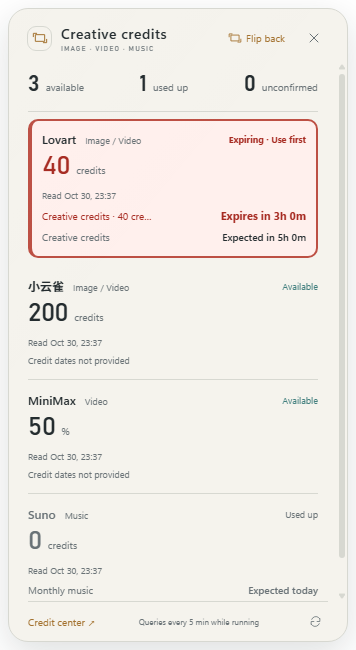
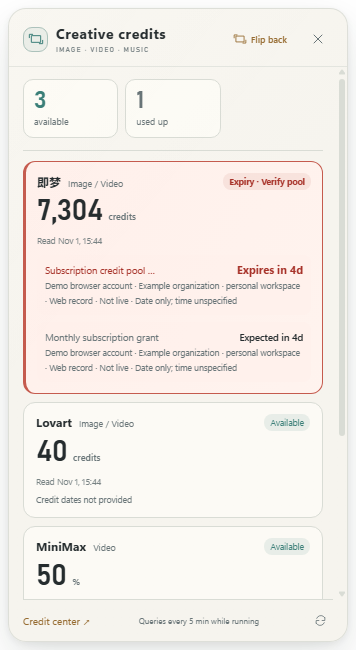
Show only confirmed creative balances on the compact back

diff --git a/src/ui/creative-panel.js b/src/ui/creative-panel.js
@@ -33,7 +33,7 @@
       const account=row.accountCount>1?t(` · 显示 ${row.account||'未命名账号'}，共${row.accountCount}个账号`,` · Showing ${row.account||'unnamed account'} of ${row.accountCount} accounts`):'';
       return `<article class="creative-row is-${row.status} ${row.expiring?'is-expiring':''} ${row.criticalExpiry?'is-critical':''} ${row.expiryIsPrimary?'expiry-is-primary':''}" data-provider="${esc(row.id)}"><div class="creative-row-top"><div><strong>${esc(row.name)}</strong><span class="creative-kind">${esc(row.kinds.map(kind).join(' / '))}</span></div><span class="creative-status">${status}</span></div><div class="creative-amount">${row.amount==null?'—':format(row.amount)}<small>${row.amount==null?'':esc(unit)}</small></div><div class="creative-read-time">${esc(reading+provenance+account)}</div>${dateLines(row)}</article>`;
     }).join('');
-    return `<section class="panel creative-panel"><header class="header"><div class="brand-mark">${icon('flip')}</div><div class="brand">${t('创作积分','Creative credits')}<small>IMAGE · VIDEO · MUSIC</small></div><span class="spacer"></span><button class="flip-switch" data-action="show-codex">${icon('flip')}${t('翻回','Flip back')}</button>${button('close',t('关闭面板','Close panel'),'close')}</header><div class="content creative-content"><div class="creative-summary"><span><strong>${data.available}</strong>${t('有积分','available')}</span><span><strong>${data.empty}</strong>${t('已用尽','used up')}</span><span><strong>${data.unknown}</strong>${t('待确认','unconfirmed')}</span></div>${state.demo?`<p class="notice demo-label">${t('示例数据','Sample data')}</p>`:''}<div class="creative-list">${rows||`<div class="empty"><h1>${t('还没有创作额度读数','No creative quota readings yet')}</h1><p>${t('使用本机已有的生图、生视频或音乐连接；可到额度中心梳理和补充记录。','Use existing image, video or music connections. Discover tools or add readings in the credit center.')}</p></div>`}</div></div><footer class="footer"><button class="text-button" data-action="credit-center">${t('额度中心','Credit center')} ↗</button><span>${data.enabled?t('运行时每5分钟查询','Queries every 5 min while running'):t('自动查询已暂停','Automatic queries paused')}</span><button class="icon-button" data-action="creative-refresh" ${data.busy?'disabled':''} aria-label="${t('刷新创作积分','Refresh creative credits')}">${icon('refresh')}</button></footer></section>`;
+    return `<section class="panel creative-panel"><header class="header"><div class="brand-mark">${icon('flip')}</div><div class="brand">${t('创作积分','Creative credits')}<small>IMAGE · VIDEO · MUSIC</small></div><span class="spacer"></span><button class="flip-switch" data-action="show-codex">${icon('flip')}${t('翻回','Flip back')}</button>${button('close',t('关闭面板','Close panel'),'close')}</header><div class="content creative-content"><div class="creative-summary"><span><strong>${data.available}</strong>${t('有积分','available')}</span><span><strong>${data.empty}</strong>${t('已用尽','used up')}</span></div>${state.demo?`<p class="notice demo-label">${t('示例数据','Sample data')}</p>`:''}<div class="creative-list">${rows||`<div class="empty"><h1>${t('还没有创作额度读数','No creative quota readings yet')}</h1><p>${t('这里只显示已查到有效余额的工具。有积分和已用尽的都会保留，其他工具请到额度中心查看。','Only tools with current balance readings appear here, including used-up balances. Find other tools in the credit center.')}</p></div>`}</div></div><footer class="footer"><button class="text-button" data-action="credit-center">${t('额度中心','Credit center')} ↗</button><span>${data.enabled?t('运行时每5分钟查询','Queries every 5 min while running'):t('自动查询已暂停','Automatic queries paused')}</span><button class="icon-button" data-action="creative-refresh" ${data.busy?'disabled':''} aria-label="${t('刷新创作积分','Refresh creative credits')}">${icon('refresh')}</button></footer></section>`;
   }
   return{markup};
 });

diff --git a/docs/CREDIT_CENTER.md b/docs/CREDIT_CENTER.md
@@ -2,6 +2,12 @@
 
 For installation and first use, start with the [English tutorial](GETTING_STARTED.md). This page describes adapters, private imports and integration details. 首次安装和使用请先看[中文教程](GETTING_STARTED.zh-CN.md)，本页为适配、私人导入及集成说明。
 
+## 0.3.11: Balance-only creative preview / 背面只显示有效余额
+
+The creative back includes only tools classified as available or used up from current balance readings. Missing, failed, stale, expired or otherwise unconfirmed readings stay in the full credit center, with their original balances and dates intact. The back has no unconfirmed counter. Hidden tools still refresh normally and reappear after a successful reading; a query in progress keeps the refresh control busy even when its tool is hidden. Expiry priority, daily-gift suppression, and zero-balance styling continue to apply to visible rows.
+
+中文：背面只保留查到有效余额的工具，有积分和已用尽都显示。未接通、失败、过期及其他待确认读数收在额度中心，原余额和日期不删；顶部去掉待确认计数。隐藏工具继续按原机制刷新，查到有效余额自动出现，查询期间刷新按钮保持忙碌状态。可见卡片沿用临期标红置顶、每日赠送到期静音及用尽置灰。
+
 ## 0.3.8: Daily expiry suppression / 每日赠送到期静音
 
 Same-day daily gifts remain balances and date facts, but do not produce expiry notifications or priority/countdowns in compact overviews. Explicit `poolType` / `creditCadence` is normalized before persistence and propagated into events. `daily` denotes the daily same-day gift bucket; `monthly` normalizes to `subscription`. Explicit subscription/purchased/permanent metadata and stated multi-day validity prevent legacy daily-name misclassification. The current date alone is never sufficient for suppression.

diff --git a/docs/VERIFICATION.md b/docs/VERIFICATION.md
@@ -1,5 +1,11 @@
 # Verification / 验证记录
 
+## 0.3.11 creative balance filtering
+
+159 automated checks pass, including missing/failed/stale balances, mixed accounts with a current zero balance, hidden-tool refresh and reappearance. The final ASAR passes 44 isolated native interactions in Chinese/dark and English/light at 356px and 320px, covering the flip, available/used-up rows, hidden unknown tools, retained center records, successful refresh, and Codex reopening behavior. Screenshots use synthetic data. This verifies local behavior, not Mac devices or natural future notification delivery.
+
+中文：159项自动检查和最终ASAR内44项隔离原生操作通过。缺失、失败和旧余额收起，有效零余额保留；多账号不合计，其他账号未知不挡住所选账号的有效零余额。隐藏工具仍刷新，成功后自动出现，中心记录、日期和Codex正面保留。覆盖中英明暗及356/320宽度，公开图仅合成数据；不冒充Mac或自然通知验收。
+
 ## 0.3.8 daily expiry suppression / 每日赠送静音（2026-10-30）
 
 - 154 automated checks pass. New cases exercise daily-vs-today distinction, explicit daily/purchased cadence normalization, website/live/user-date paths, bound-pool inheritance, retained balances/date facts and daily renewal independence. Same-day subscription and purchased expiries remain eligible.

diff --git a/README.md b/README.md
@@ -8,7 +8,7 @@ A desktop AI credit center with a small, precision-styled Codex usage gauge abov
 
 **No Gauge account or additional provider login inside Gauge.** It uses the current user's own local CLI/MCP connections or optional API credentials. A new installation includes no developer account, balances or date rules. Discovering a plugin is not proof that its balance can be queried. See the [distribution privacy verification](docs/PRIVACY_VERIFICATION.md).
 
-**Current version: 0.3.10.** Creative credit cards now fit the compact panel with long date/account notes, and reopening the panel always starts with Codex usage. [Release notes](docs/releases/0.3.10.md) · [Technical guide](docs/CREDIT_CENTER.md).
+**Current version: 0.3.11.** The creative back shows only current balance readings, including available and used-up tools. Unconnected or unconfirmed tools remain in the credit center. [Release notes](docs/releases/0.3.11.md) · [Technical guide](docs/CREDIT_CENTER.md).
 
 ![Quota overview with synthetic sample data](assets/credit-overview-en.png)
 

diff --git a/docs/releases/0.3.11.md b/docs/releases/0.3.11.md
@@ -1,0 +1,11 @@
+# 0.3.11 — Keep the creative back focused on balances
+
+- Shows only creative tools with current balance readings. Available credits and confirmed zero balances both remain visible.
+- Moves unconnected, failed and unconfirmed readings out of the compact back; they remain available in the credit center. Removes the unconfirmed counter from the back.
+- Hidden tools continue refreshing and reappear after a successful reading. Preserves expiry priority, countdowns, daily-gift suppression, and the original Codex face.
+
+Windows builds remain unsigned; Mac behavior has not been device-tested.
+
+## 中文
+
+创作积分背面只显示已查到有效余额的工具，有积分和已用尽都保留。未接通、查询失败及待确认的读数收在额度中心，不占背面位置，顶部也去掉待确认计数。隐藏工具继续刷新，查到有效余额会自动出现；临期标红置顶、倒计时、每日赠送静音和Codex正面沿用原逻辑。Windows包未签名，Mac仍待实机验证。

diff --git a/README.zh-CN.md b/README.zh-CN.md
@@ -8,7 +8,7 @@
 
 **不用注册刻度账号，不用在刻度里额外登录平台。** 查询沿用当前用户自己电脑上的 CLI / MCP 连接或可选 API 凭据。新安装不带开发者账号、余额和日期规则；发现插件不代表能查余额。详见[分发隐私核对记录](docs/PRIVACY_VERIFICATION.md)。
 
-**当前版本 0.3.10：** 修复创作积分长日期说明撑宽面板的问题；关闭后再次打开，默认显示Codex额度正面。[版本说明](docs/releases/0.3.10.md) · [进阶说明](docs/CREDIT_CENTER.md)。
+**当前版本 0.3.11：** 创作积分背面只显示有效余额，有积分和已用尽的都保留；未接通、余额待确认的工具留在额度中心。[版本说明](docs/releases/0.3.11.md) · [进阶说明](docs/CREDIT_CENTER.md)。
 
 ![额度总览，图中均为合成示例数据](assets/credit-overview-zh.png)
 
